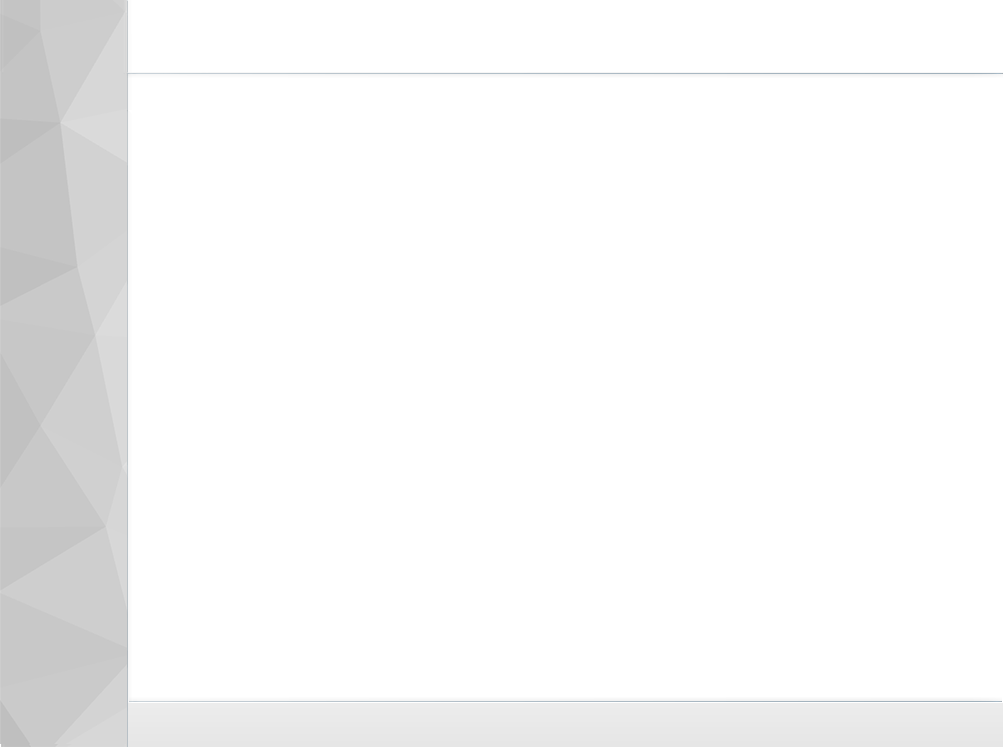
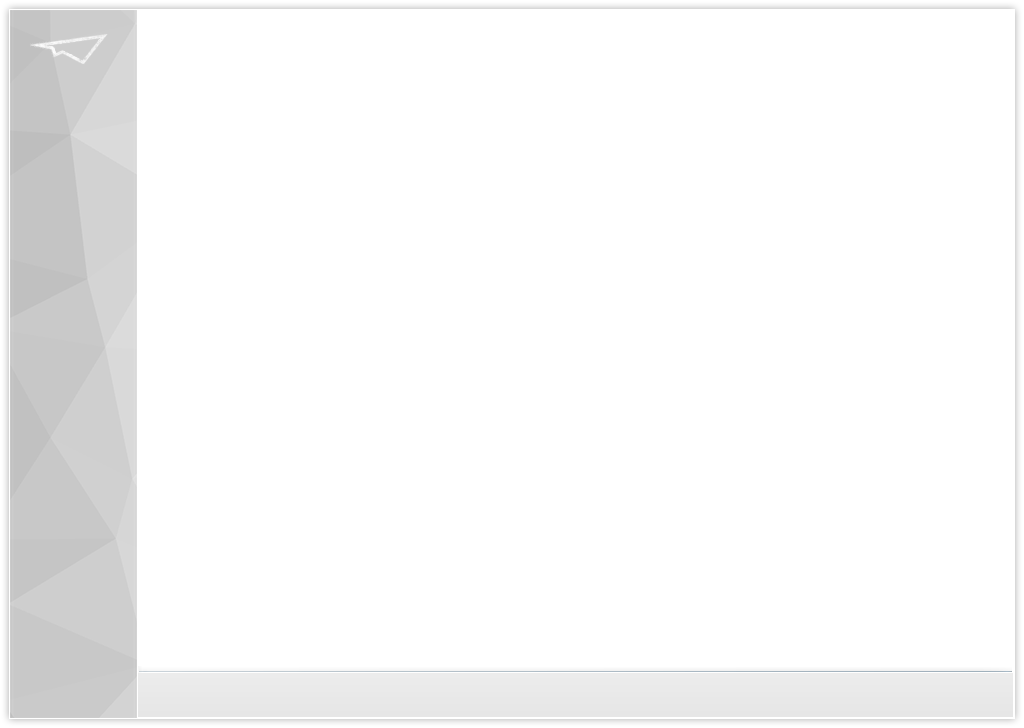
跟换主界面

Changed region(s): [[0.0, 0.0, 0.1544, 1.0], [0.988, 0.0302, 1.0, 0.9368], [0.988, 0.9973, 1.0, 1.0]]

diff --git a/teacher_app/src/cn/com/incito/interclass/ui/MainFrame.java b/teacher_app/src/cn/com/incito/interclass/ui/MainFrame.java
@@ -105,16 +105,17 @@ public class MainFrame extends MouseAdapter {
 		frame.setContentPane(contentPane);
 		contentPane.setLayout(null);
 
-		frame.setSize(1004, 748);
+		frame.setSize(1024, 728);
 		frame.setDefaultCloseOperation(3);
 		frame.setLocationRelativeTo(null);// 设置窗体中间位置
 		frame.setLayout(null);// 绝对布局
 		frame.setUndecorated(true);// 去除窗体
 		frame.setAlwaysOnTop(true); // 设置界面悬浮
+		frame.setBackground(new Color(0,0,0,0));//窗体透明
 
 		// //////////////////////top部分////////////////////////
 		JPanel top = new JPanel();
-		top.setSize(1004, 73);
+		top.setSize(1024, 73);
 		top.setLayout(null);
 		top.setOpaque(false);
 
@@ -125,7 +126,7 @@ public class MainFrame extends MouseAdapter {
 		ImageIcon imgMin = new ImageIcon("images/login/4.png");
 		btnMin.setIcon(imgMin);// 设置图片
 		top.add(btnMin);// 添加按钮
-		btnMin.setBounds(938, -1, imgMin.getIconWidth(), imgMin.getIconHeight());
+		btnMin.setBounds(948, 9, imgMin.getIconWidth(), imgMin.getIconHeight());
 		btnMin.addMouseListener(this);
 
 		// 关闭按钮
@@ -135,25 +136,8 @@ public class MainFrame extends MouseAdapter {
 		ImageIcon imgMax = new ImageIcon("images/login/7.png");
 		btnClose.setIcon(imgMax);// 设置图片
 		top.add(btnClose);// 添加按钮
-		btnClose.setBounds(965, -1, imgMax.getIconWidth(),
-				imgMax.getIconHeight());
+		btnClose.setBounds(975, 9, imgMax.getIconWidth(), imgMax.getIconHeight());
 		btnClose.addMouseListener(this);
-
-		// logo
-		JLabel lblLogo = new JLabel();
-		ImageIcon imgLogo = new ImageIcon("images/main/logo.png");
-		lblLogo.setIcon(imgLogo);
-		top.add(lblLogo);
-		lblLogo.setBounds(13, 23, imgLogo.getIconWidth(),
-				imgLogo.getIconHeight());
-
-		// menu
-		JLabel btnHome = new JLabel();
-		ImageIcon imgHome = new ImageIcon("images/main/ico_home_foucs.png");
-		btnHome.setIcon(imgHome);
-		top.add(btnHome);
-		btnHome.setBounds(150, 40, imgLogo.getIconWidth(),
-				imgLogo.getIconHeight());
 
 		contentPane.add(top);
 
@@ -203,10 +187,8 @@ public class MainFrame extends MouseAdapter {
 
 			@Override
 			protected void paintComponent(Graphics g) {
-				Image iconUser = new ImageIcon("images/main/bg_user.png")
-						.getImage();
-				g.drawImage(iconUser, 0, 0, this.getWidth(), this.getHeight(),
-						this);
+				Image iconUser = new ImageIcon("images/main/bg_user.png").getImage();
+				g.drawImage(iconUser, 0, 0, this.getWidth(), this.getHeight(), this);
 			}
 
 		};
@@ -219,22 +201,22 @@ public class MainFrame extends MouseAdapter {
 		pnlUser.setBounds(0, 110, 127, 95);
 
 		JLabel lblCopyRight = new JLabel("Copy Right © 2014", JLabel.CENTER);
-		lblCopyRight.setBounds(0, 605, 127, 20);
+		lblCopyRight.setBounds(0, 585, 127, 20);
 		left.add(lblCopyRight);
 		JLabel lblCompany1 = new JLabel("四川灵动", JLabel.CENTER);
-		lblCompany1.setBounds(0, 630, 127, 20);
+		lblCompany1.setBounds(0, 610, 127, 20);
 		left.add(lblCompany1);
 		JLabel lblCompany2 = new JLabel("信息技术有限公司", JLabel.CENTER);
-		lblCompany2.setBounds(0, 645, 127, 20);
+		lblCompany2.setBounds(0, 625, 127, 20);
 		left.add(lblCompany2);
 
-		left.setBounds(0, 73, 127, 930);
+		left.setBounds(10, 73, 127, 930);
 		contentPane.add(left);
 
 		// ///////////////////center部分////////////////////////
 		cardLayout = new CardLayout();
 		cardPanel = new JPanel(cardLayout);
-		cardPanel.setBounds(128, 75, 878, 618);
+		cardPanel.setBounds(138, 35, 876, 620);
 		contentPane.add(cardPanel);
 		
 		//准备上课card
@@ -243,7 +225,7 @@ public class MainFrame extends MouseAdapter {
 		JScrollPane deskScrollPane = new JScrollPane(preparePanel);
 		deskScrollPane.getVerticalScrollBar().setUnitIncrement(50);
 		deskScrollPane.setBorder(null);
-		deskScrollPane.setBounds(0, 0, 878, 618);
+		deskScrollPane.setBounds(0, 0, 876, 630);
 		 //TODO 根据分组的多少动态调整
 		preparePanel.setPreferredSize(new Dimension(deskScrollPane.getWidth() - 50, deskScrollPane.getHeight() * 3));
 		preparePanel.revalidate();
@@ -259,17 +241,15 @@ public class MainFrame extends MouseAdapter {
 		bottom.setSize(878, 48);
 		bottom.setLayout(null);
 		bottom.setOpaque(false);
-		bottom.setBounds(127, 694, 878, 54);
+		bottom.setBounds(137, 664, 878, 54);
 
 		JPanel pnlClass = new JPanel() {
 			private static final long serialVersionUID = 5365972834168199801L;
 
 			@Override
 			protected void paintComponent(Graphics g) {
-				Image iconClass = new ImageIcon("images/main/bg_input_kc.png")
-						.getImage();
-				g.drawImage(iconClass, 0, 0, this.getWidth(), this.getHeight(),
-						this);
+				Image iconClass = new ImageIcon("images/main/bg_input_kc.png").getImage();
+				g.drawImage(iconClass, 0, 0, this.getWidth(), this.getHeight(), this);
 			}
 		};
 		pnlClass.setLayout(null);
@@ -281,10 +261,8 @@ public class MainFrame extends MouseAdapter {
 
 			@Override
 			protected void paintComponent(Graphics g) {
-				Image iconClass = new ImageIcon("images/main/bg_input_kc.png")
-						.getImage();
-				g.drawImage(iconClass, 0, 0, this.getWidth(), this.getHeight(),
-						this);
+				Image iconClass = new ImageIcon("images/main/bg_input_kc.png").getImage();
+				g.drawImage(iconClass, 0, 0, this.getWidth(), this.getHeight(), this);
 			}
 		};
 		pnlCourse.setLayout(null);
@@ -349,12 +327,9 @@ public class MainFrame extends MouseAdapter {
 				for (Group group : groupList) {
 					JSONObject json = new JSONObject();
 					json.put("id", group.getId());
-					MessagePacking messagePacking = new MessagePacking(
-							Message.MESSAGE_GROUP_EDIT);
-					messagePacking.putBodyData(DataType.INT,
-							BufferUtils.writeUTFString(json.toString()));
-					final List<SocketChannel> channels = app
-							.getClientChannelByGroup(group.getId());
+					MessagePacking messagePacking = new MessagePacking(Message.MESSAGE_GROUP_EDIT);
+					messagePacking.putBodyData(DataType.INT, BufferUtils.writeUTFString(json.toString()));
+					final List<SocketChannel> channels = app.getClientChannelByGroup(group.getId());
 					sendMessageToGroup(messagePacking, channels);
 				}
 			} else if (JOptionPane.NO_OPTION == result) {
@@ -427,7 +402,7 @@ public class MainFrame extends MouseAdapter {
 	public void setBackground() {
 		lblBackground = new JLabel();
 		lblBackground.setIcon(new ImageIcon("images/main/bg.png"));
-		lblBackground.setBounds(0, 0, 1004, 748);
+		lblBackground.setBounds(0, 0, 1024, 728);
 		frame.add(lblBackground);
 	}
 

diff --git a/teacher_app/src/cn/com/incito/interclass/ui/GroupPanel.java b/teacher_app/src/cn/com/incito/interclass/ui/GroupPanel.java
@@ -1,13 +1,7 @@
 package cn.com.incito.interclass.ui;
 
-import java.awt.BasicStroke;
-import java.awt.Color;
 import java.awt.Graphics;
-import java.awt.Graphics2D;
 import java.awt.Image;
-import java.awt.Stroke;
-import java.util.ArrayList;
-import java.util.List;
 
 import javax.swing.Icon;
 import javax.swing.ImageIcon;
@@ -16,134 +10,43 @@ import javax.swing.JPanel;
 
 import cn.com.incito.interclass.po.Group;
 
-import java.awt.Font;
-import java.awt.SystemColor;
-
-import javax.swing.SwingConstants;
-import javax.swing.border.LineBorder;
-
-import java.awt.GridLayout;
-import java.awt.BorderLayout;
-import java.awt.GridBagLayout;
-import java.awt.GridBagConstraints;
-import java.awt.Insets;
-
 public class GroupPanel extends JPanel {
 
 	private static final long serialVersionUID = 882552987989905663L;
-	private static final String PAD_OFFLINE = "images/main/ico_pad_disconnect.png";
-	private static final String DEFALUT_AVATAR = "images/main/ico_pad_connection.png";
 	
 	private Group group;
 	private JLabel lblLogo;
 	private JLabel lblNumber;
 	private JLabel lblGroupName;
-	private List<JLabel> deviceList = new ArrayList<JLabel>();
-	private List<JLabel> studentList = new ArrayList<JLabel>();
 	
 	@Override
 	protected void paintComponent(Graphics g) {
-		Image iconUser = new ImageIcon("images/quiz/bg_list.png").getImage();
-		g.drawImage(iconUser, 0, 0, this.getWidth(), this.getHeight(),this);
+		Image image = new ImageIcon("images/quiz/bg_list.png").getImage();
+		g.drawImage(image, 0, 0, this.getWidth(), this.getHeight(),this);
 	}
 	
 	public GroupPanel(){
 		setLayout(null);
-		setVisible(false);
+		add(createImagePanel(12,15));
+		add(createImagePanel(210,15));
+		add(createImagePanel(12,230));
+		add(createImagePanel(210,230));
 		
-		//课桌号
-		Icon icon = new ImageIcon("images/main/pic_%s.png");
-		lblNumber = new JLabel("课桌号", icon, JLabel.LEFT);
-		lblNumber.setHorizontalTextPosition(JLabel.LEFT);
-		add(lblNumber);
-		lblNumber.setBounds(15, 5, 70, 30);
-//
-//		//小组名称
-//		lblGroupName = new JLabel();
-//		add(lblGroupName);
-//		lblGroupName.setBounds(80, 5, 80,30);
-//		lblGroupName.setVisible(false);
-//		
-//		//小组头像
-//		ImageIcon imgLogo = new ImageIcon(DEFALUT_AVATAR);//默认小组头像
-//		lblLogo = new JLabel();
-//		lblLogo.setIcon(imgLogo);
-//		add(lblLogo);
-//		lblLogo.setBounds(40, 60, imgLogo.getIconWidth(), imgLogo.getIconHeight());
-//
-//		//小组与pad的分割线
-//		JLabel lblLine1 = getLine();
-//		add(lblLine1);
-//		lblLine1.setBounds(160, 10, 2,120);
-//		
-//		//pad列表
-//		int y = 30;
-//		for (int i = 0; i < 2; i++) {
-//			int x = 200;
-//			for (int j = 0; j < 2; j++) {
-//				JLabel lblDevice = createPad(x, y);
-//				add(lblDevice);
-//				lblDevice.setVisible(false);
-//				deviceList.add(lblDevice);
-//				x += 70;
-//			}
-//			y += 50;
-//		}
-//		
-//		//设备与学生的分割线
-//		JLabel lblLine2 = getLine();
-//		add(lblLine2);
-//		lblLine2.setBounds(367, 10, 2,120);
-//		
-//		//学生列表
-//		int x = 400;
-//		for (int i = 0; i < 4; i++) {
-//			y = 12;
-//			for (int j = 0; j < 4; j++) {
-//				JLabel lblName = getNameLabel();
-//				add(lblName);
-//				lblName.setBounds(x, y, 90, 24);
-//				studentList.add(lblName);
-//				y += 30;
-//			}
-//			x += 110;
-//		}
 	}
 	
-	private JLabel createPad(int x, int y) {
-		ImageIcon imgPad = new ImageIcon(PAD_OFFLINE);
-		JLabel lblPad = new JLabel();
-		lblPad.setIcon(imgPad);
-		lblPad.setBounds(x, y, imgPad.getIconWidth(), imgPad.getIconHeight());
-		return lblPad;
-	}
-	
-	private JLabel getLine() {
-		return new JLabel() {
-			private static final long serialVersionUID = 2679733728559406364L;
+	private JPanel createImagePanel(int x, int y) {
+		final ImageIcon icon = new ImageIcon("images/quiz/bg_img.png");
+		JPanel imagePanel = new JPanel(){
+			private static final long serialVersionUID = -5620925583420692590L;
 			@Override
-			public void paint(Graphics g) {
-				Graphics2D g2d = (Graphics2D) g;
-				Stroke stroke = g2d.getStroke();
-				Color color = g2d.getColor();
-				g2d.setStroke(new BasicStroke(2, BasicStroke.CAP_ROUND, BasicStroke.JOIN_MITER));
-				g2d.setColor(new Color(Integer.parseInt("e1e1e1", 16)));
-				g2d.drawLine(0, 0, 0, this.getHeight());
-				g2d.setStroke(stroke);
-				g2d.setColor(color);
-				this.paintComponents(g2d);
+			protected void paintComponent(Graphics g) {
+				g.drawImage(icon.getImage(), 0, 0, icon.getIconWidth(), icon.getIconHeight(),this);
 			}
 		};
+		imagePanel.setBounds(x, y, icon.getIconWidth(), icon.getIconHeight());
+		return imagePanel;
 	}
-
-	private JLabel getNameLabel(){
-		JLabel lblName = new JLabel("", JLabel.CENTER);
-		lblName.setOpaque(true);
-		lblName.setBackground(new Color(Integer.parseInt("e1e1e1", 16)));
-		lblName.setForeground(new Color(Integer.parseInt("000000", 16)));
-		return lblName;
-	}
-
+	
 	public Group getGroup() {
 		return group;
 	}
@@ -160,14 +63,6 @@ public class GroupPanel extends JPanel {
 		return lblGroupName;
 	}
 
-	public List<JLabel> getDeviceList() {
-		return deviceList;
-	}
-
-	public List<JLabel> getStudentList() {
-		return studentList;
-	}
-	
 	public void setTableNumber(int tableNumber){
 		String url = String.format("images/main/pic_%s.png",tableNumber);
 		Icon icon = new ImageIcon(url);

diff --git a/teacher_app/src/cn/com/incito/interclass/ui/PreparePanel.java b/teacher_app/src/cn/com/incito/interclass/ui/PreparePanel.java
@@ -48,10 +48,10 @@ public class PreparePanel extends JPanel implements UIContext {
 	}
 
 	private void initView() {
-		int x = 20;
+		int x = 10;
 		for (int i = 1; i <= 12; i++) {
 			TablePanel pnlTable = new TablePanel();
-			pnlTable.setBounds(20, x, 836, 139);
+			pnlTable.setBounds(10, x, 836, 139);
 			add(pnlTable);
 			tableList.add(pnlTable);
 			x += 150;

diff --git a/teacher_app/src/cn/com/incito/interclass/ui/QuizPanel.java b/teacher_app/src/cn/com/incito/interclass/ui/QuizPanel.java
@@ -53,7 +53,7 @@ public class QuizPanel extends JPanel {
 //			
 //		}
 		GroupPanel pnlGroup = new GroupPanel();
-		pnlGroup.setBounds(20, 20, 836, 139);
+		pnlGroup.setBounds(10, 10, 410, 500);
 		add(pnlGroup);
 	}
 
